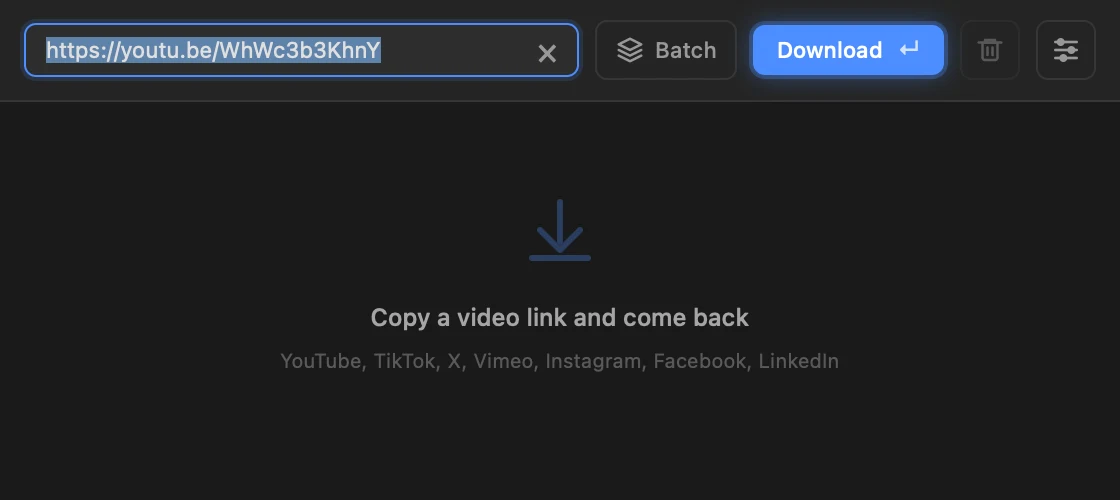
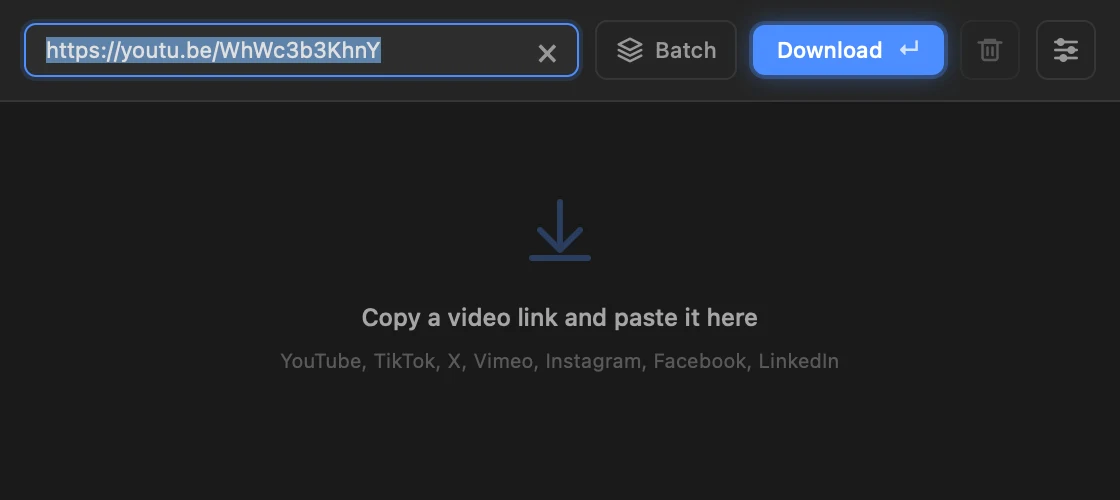
polish(web): legal-page contrast, tap targets, current app screenshots, dynamic JSON-LD version, three motion details
- Legal pages: «Back» and dates from 2.56:1 to 7.6:1; back links 32 px tall.
- Screenshots: Settings and empty state re-rendered from the published 1.5.5 app (were 1.5.4 / old copy); settings height fixed (layout shift).
- JSON-LD softwareVersion follows the GitHub release (said 1.5.1).
- Delight (reduced-motion safe): light sweep on «editors.», step keys pressed in order, install status rises in.
- DESIGN.md updated; dead CSS removed.

Changed region(s): [[0.3125, 0.6, 0.6875, 0.66]]

diff --git a/DESIGN.md b/DESIGN.md
@@ -147,7 +147,10 @@ Max line length ~30–32 em for copy, 40 em for FAQ answers.
 | **Spec list** `.specs` | `dt` 104 px column, hairlines between rows | — |
 | **FAQ** `details` | 17 px/600 summary, chevron rotates 45° → −135° | Opens from `#hash` links |
 | **Install card** `.install` | Translucent pale-blue card on navy, numbered steps, codebox with Copy | Copy → «Copied» for 2 s |
-| **Status line** `.install-started` | `role="status"`, blue tint, appears after a DMG click | — |
+| **Status line** `.install-started` | `role="status"`, blue tint, appears after a DMG click | Rises in (300 ms) |
+| **Verify disclosure** `.verify` | `details` under the download buttons: SHA-256 per DMG from the GitHub release digest; VirusTotal links behind `VT_SCANNED` | Summary underlined, ≥ 29 px target |
+| **Family footer** `.family` | «More from Super»: three siblings, name + literal tagline, UTM `utm_source=superdownloads&utm_medium=footer&utm_campaign=family` | 3 columns → 1 at 640 px |
+| **Known issues** `.known` (changelog) | Mist card above the releases, data in `knownIssues` (`releases.js`) | — |
 | **Footer** | Brand, links (≥32 px tap height), legal fine print | Links underline on hover |
 | **Badges** | Changelog «Latest» pill: green tint `rgba(31,201,128,.14)`, text `#0b7a4e` | — |
 | **Launch-price badge** | **None.** Super Downloads is free; no price, seat or countdown badges | — |
@@ -167,6 +170,9 @@ progress bar and ⋯ menu; slide-in Settings panel; welcome/activation card (`.o
 | Nav underline grow | 250 ms | `ease` |
 | FAQ chevron | 200 ms | `ease` |
 | Install-step scroll after a download click | smooth (instant with reduced motion) | browser |
+| Hero: one pass of LED light across «editors.» on load | 1.4 s, 0.5 s delay, once | `cubic-bezier(.4,0,.2,1)` |
+| How it works: ⌘C → ⌘V → ✓ keys pressed in order when in view; ✓ stays lit | 420 ms each, 380 ms apart, once | `ease` |
+| «Your download has started» status rises in | 300 ms | `ease` |
 | Demo film | plays muted only while ≥35 % on screen; never with reduced motion | — |
 | App: row enter | 280 ms | `ease-out` |
 | App: progress fill | 300 ms | `cubic-bezier(.4,0,.2,1)` |
@@ -240,6 +246,8 @@ Rules:
 | Landing sections, buttons, nav, windows, FAQ, install guide | `web/src/pages/index.astro` (scoped `<style>`) |
 | Release notes page + known issues | `web/src/pages/changelog.astro` + `web/src/data/releases.js` |
 | Legal pages | `web/src/pages/{privacy,terms,copyright}.astro` |
+| Press kit (noindex) + logos | `web/src/pages/press.astro`, `web/public/press/` (`node scripts/press/render-logos.cjs`) |
+| Support reply templates | `docs/support/MACROS.md` |
 | Security / cache headers | `web/vercel.json` |
 | App tokens, themes, components, motion | `src/styles.css` |
 | App markup / UI copy | `src/index.html`, `src/main.js` |
